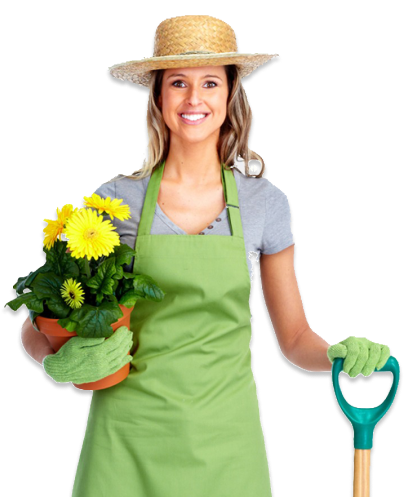
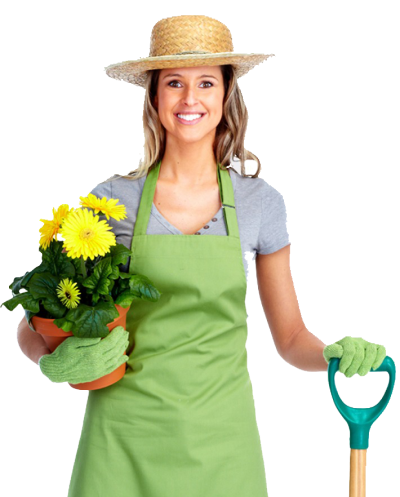
feat: add index.js, a little fix css

diff --git a/plants/style.css b/plants/style.css
@@ -136,29 +136,19 @@ body {
 }
 
 .list-nav {
+    width: 452px;
     display: flex;
+    justify-content: space-between;
     text-decoration: none;
     list-style: none;
+    padding: 0 23px 0 23px;
 }
 
-.list-home {
-    margin-right: 8px;
-    padding-right: 42px;
+.list-nav:first-child{
+    padding-left: 0;
 }
-
-.list-about {
-    margin-right: 8px;
-    padding-right: 42px;
-}
-
-.list-service {
-    margin-right: 4px;
-    padding-right: 42px;
-}
-
-.list-price {
-    margin-right: 8px;
-    padding-right: 42px;
+.list-nav:last-child{
+    padding-right: 0;
 }
 
 .link-nav {
@@ -635,7 +625,7 @@ body {
     width: 195px;
     margin-left: 0px;
     margin-right: -10px;
-    margin-top: 15px;
+    margin-top: 6px;
     margin-bottom: 439px;
     font-family: 'Inika';
     font-style: normal;
@@ -648,7 +638,7 @@ body {
 .accordion-contacts {
     position: relative;
     margin-left: 70px;
-    margin-top: 103px;
+    margin-top: 94px;
     text-align: start;
     padding-left: 22px;
     width: 450px;

diff --git a/plants/index.html b/plants/index.html
@@ -33,7 +33,7 @@
     <main class="main">
 
         <section class="welcome">
-            <img src="./assets/img/welcome-pic.jpg" alt="Falling leaves" class="welcome-pic">
+            <img src="./assets/img/welcome-pic.png" alt="Falling leaves" class="welcome-pic">
             <div class="welcom-caption">
                 <h1 class="caption">We grow <span class="green">plants</span> and give you oxygen</h1>
                 <p class="desc">Lorem Ipsum is simply dummy text of the printing and typesetting industry. Lorem Ipsum
@@ -163,6 +163,7 @@
             </ul>
         </div>
     </footer>
+    <script src="./index.js"></script>
 </body>
 
 </html>

diff --git a/plants/index.js b/plants/index.js
@@ -1,0 +1,6 @@
+console.log(` Score: 110 / 100\n
+- [x] The layout valid. (10/10)\n
+- [x] The layout semantic. (20/20)\n
+- [x] The layout corresponds to the layout. (48/48)\n
+- [x] Requirements for css. (12/12)\n
+- [x] Interactivity realized through css. (20/20)`);

diff --git a/Requirements.md b/Requirements.md
@@ -1,0 +1,31 @@
+## Требования к вёрстке
+1. Вёрстка валидная +10
+2. Вёрстка семантическая +20  
+   В коде странице присутствуют следующие элементы (указано минимальное количество, может быть больше):
+   - `<header>`, `<main>`, `<footer>` +3
+   - пять элементов `<section>` (по количеству секций) +3
+   - только один заголовок `<h1>` +3
+   - четыре заголовка `<h2>` (количество секций минус одна, у которой заголовок `<h1>`) +3
+   - один элемент `<nav>` (панель навигации) +3
+   - два списка `ul > li > a` (панель навигации, ссылки на соцсети) +3
+   - пять кнопок `<button>` +2
+3. Вёрстка соответствует макету +48
+   - блок `<header>` +6
+   - секция `welcome` +7
+   - секция `about` +7
+   - секция `service` +7
+   - секция `prices` +7
+   - секция `contacts` +7
+   - блок `<footer>` +7 
+4. Требования к css + 12
+   - для построения сетки используются флексы или гриды +2
+   - при уменьшении масштаба страницы браузера вёрстка размещается по центру, а не сдвигается в сторону +2
+   - фоновый цвет тянется на всю ширину страницы +2
+   - иконки добавлены в формате `.svg`. SVG может быть добавлен любым способом. Обращаем внимание на формат, а не на способ добавления +2
+   - изображения добавлены в формате `.jpg` или `.png` +2
+   - есть `favicon` +2
+5. Интерактивность, реализуемая через css +20
+   - плавная прокрутка по якорям +5
+   - cсылки в футере при нажатии на них ведут на гитхаб автора проекта и на страницу курса https://rs.school/js-stage0/ +5
+   - интерактивность включает в себя не только изменение внешнего вида курсора, например, при помощи свойства `cursor: pointer`, но и другие визуальные эффекты, например, изменение цвета фона или цвета шрифта. Если в макете указаны стили при наведении и клике, для элемента указываем эти стили. Если в макете стили не указаны, реализуете их по своему усмотрению, руководствуясь общим стилем макета +5
+   - обязательное требование к интерактивности: плавное изменение внешнего вида элемента при наведении и клике не влияющее на соседние элементы +5
